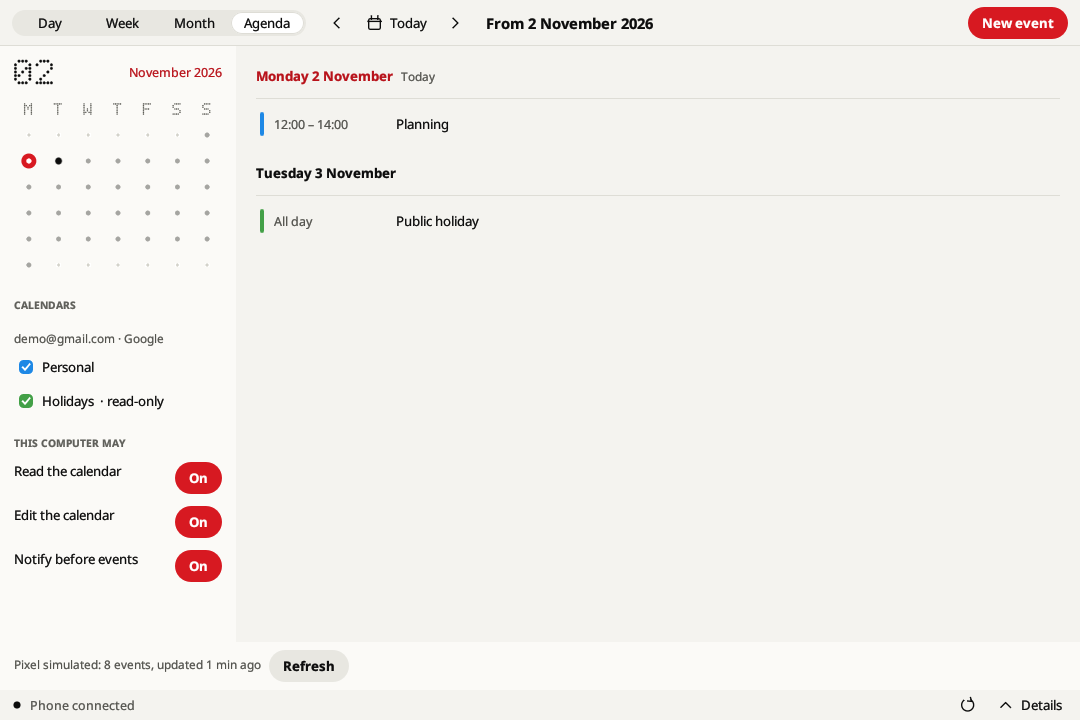
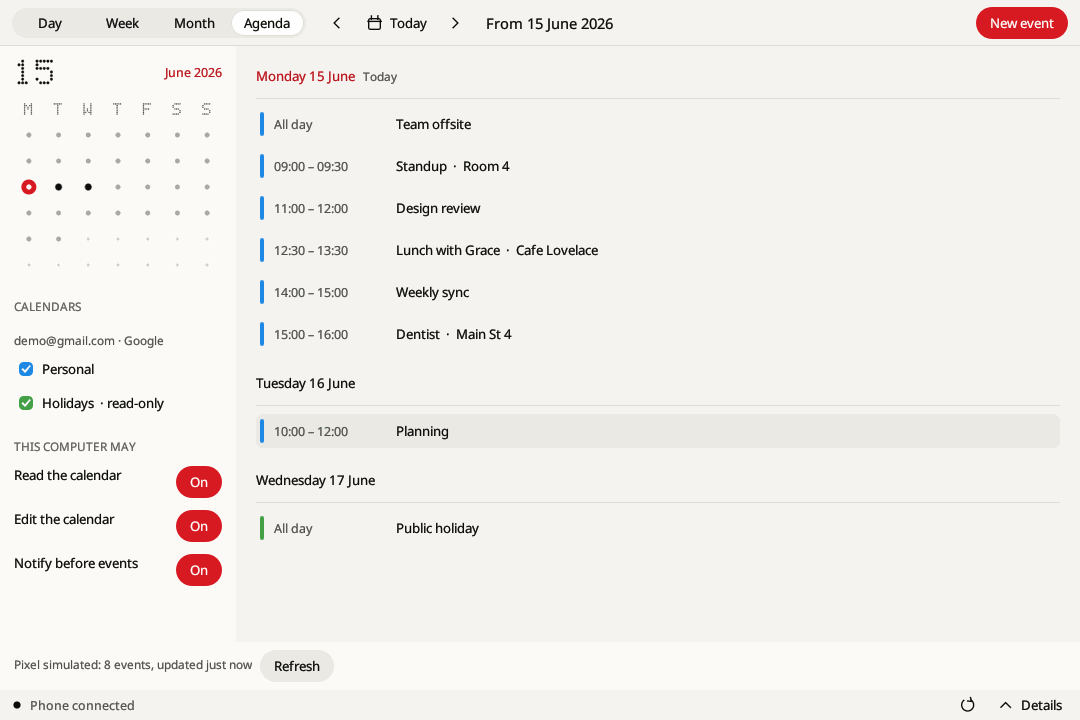
Refresh README screenshots from current desktop captures and Android goldens

diff --git a/README.md b/README.md
@@ -16,17 +16,28 @@ one red accent.
 > are no prebuilt Windows or macOS binaries yet. The feature matrix says exactly what was checked and how.
 
 <p align="center">
-  <img src="docs/img/nothing-home-dark.png" width="200" alt="Android Home, dark">
-  <img src="docs/img/nothing-setup-light.png" width="200" alt="Android setup wizard, light">
-  <img src="docs/img/nothing-status-tiles-dark.png" width="200" alt="Android status tiles, dark">
-  <img src="docs/img/nothing-calendar-dark.png" width="200" alt="Android dot-matrix calendar, dark">
+  <img src="docs/img/android-status-dark.png" width="170" alt="Android Home with link status tiles, dark">
+  <img src="docs/img/android-setup-light.png" width="170" alt="Android setup wizard, light">
+  <img src="docs/img/android-share-dark.png" width="170" alt="Android sharing settings: battery, notifications and call dialing, dark">
+  <img src="docs/img/android-calendar-dark.png" width="170" alt="Android dot-matrix calendar, dark">
 </p>
 <p align="center">
-  <img src="docs/img/desktop-home-dark.png" width="170" alt="Desktop Home, dark">
-  <img src="docs/img/desktop-pair-qr.png" width="260" alt="Pair with QR code on the desktop">
-  <img src="docs/img/desktop-calendar.png" width="320" alt="Desktop Calendar, month view">
-  <img src="docs/img/desktop-share.png" width="220" alt="Desktop Share window">
+  <img src="docs/img/desktop-nothing-home-dark.png" width="380" alt="Desktop Home, paired and connected, dark">
+  <img src="docs/img/desktop-nothing-first-run-dark.png" width="380" alt="Desktop Home on first run: install the app and pair a phone, dark">
 </p>
+<p align="center">
+  <img src="docs/img/desktop-nothing-messages-dark.png" width="250" alt="Desktop Messages, dark">
+  <img src="docs/img/desktop-nothing-contacts-dark.png" width="250" alt="Desktop Contacts, dark">
+  <img src="docs/img/desktop-nothing-calendar-month-dark.png" width="250" alt="Desktop Calendar, month view, dark">
+  <img src="docs/img/desktop-nothing-call-incoming-dark.png" width="140" alt="Desktop incoming call window, dark">
+</p>
+<p align="center">
+  <img src="docs/img/desktop-nothing-home-light.png" width="380" alt="Desktop Home, light">
+  <img src="docs/img/desktop-nothing-calendar-agenda-light.png" width="380" alt="Desktop Calendar, agenda view, light">
+</p>
+
+<sub>All screenshots show synthetic fixture data (a simulated phone and made-up contacts) and are regenerated by the
+screenshot scripts; see [docs/reports/screenshots-refresh.md](docs/reports/screenshots-refresh.md).</sub>
 
 ## Feature matrix
 

diff --git a/docs/reports/screenshots-refresh.md b/docs/reports/screenshots-refresh.md
@@ -1,0 +1,38 @@
+# README screenshots refresh
+
+Date: 2026-11-03.
+
+## What changed
+
+* Desktop: eight captures from the Xvfb screenshot run (scripted phone, `scripts/screenshots-desktop-nothing.sh`, std size, 960x680 and
+  smaller) were quantised with `magick -strip -colors 128 PNG8:` and written to `docs/img/desktop-nothing-*.png`: home dark and light,
+  first run, messages, contacts, calendar month (dark), calendar agenda (light), incoming call. Six files replace older images in place; two
+  are new (`first-run-dark`, `contacts-dark`). The desktop crates are unchanged between the capture worktree (00cc270a0) and origin/main,
+  so the captures were not re-taken.
+* Android: no emulator was driven. The four images `docs/img/android-{status-dark,setup-light,share-dark,calendar-dark}.png` come from the
+  checked-in goldens in `tests/golden/android/` (`status-dark`, `controls-light`, `shareon-dark`, `calendar-dark`, font scale 1.0), which include
+  the settings screens from ac2aa91ef, quantised the same way (540x1080).
+* README gallery rewritten with new alt text; `docs/android-app.md` points at the new Android names.
+* Old `docs/img/nothing-*.png` (Android, 1080x2400) are no longer in the README; they stay because older reports link them.
+
+## Size
+
+New and changed images total about 0.8 MB on disk, of which the replaced desktop files were already in the repo, so growth is well under
+the 2 MB budget.
+
+## Left out on purpose
+
+* Share and Clipboard desktop windows: the std captures are cropped and the Share one shows a scratch path (`/tmp/gb-golden-home/...`), so the
+  older `desktop-share.png` / `desktop-clipboard-sync.png` stay as they were (not in the README gallery anymore: share is covered by the Android
+  share image).
+* Calls keypad: shows "Can't call yet" capability notices in the fixture run; the incoming-call window is used instead.
+
+## Fixture check
+
+Every image was viewed. Contents are only the fixture phone ("Pixel simulated", "Pixel 9"), made-up people (Ada Lovelace, Alan Turing,
+Grace Hopper, Katherine Johnson, Margaret Hamilton), a 555 number, `demo@gmail.com`, and June 2026 calendar entries. No real names, numbers,
+addresses or home paths.
+
+## Cleanup
+
+No emulator or adb server was running (adb not on PATH, no emulator/qemu process). Scratch is under `~/.cache/gb-tmp/final`.

diff --git a/docs/android-app.md b/docs/android-app.md
@@ -283,5 +283,5 @@ a few KB of code and vector line icons.
   dark/light follow the system, RTL aligns dot text to the start edge, decorative dot art is hidden from TalkBack.
 * **Design gallery (debug builds only).** `DesignGalleryActivity` shows every component with synthetic data:
   `adb shell am start -n dev.geekbridge.android/.DesignGalleryActivity --es page status|calendar|controls`.
-* **Screenshots.** `dist/screenshots/android/nothing-*.png` (light and dark); four are in `docs/img/nothing-*.png`
-  (`nothing-home-dark`, `nothing-setup-light`, `nothing-status-tiles-dark`, `nothing-calendar-dark`).
+* **Screenshots.** `dist/screenshots/android/nothing-*.png` (light and dark); four are in `docs/img/android-*.png`
+  (`android-status-dark`, `android-setup-light`, `android-share-dark`, `android-calendar-dark`), reduced from `tests/golden/android/`.
